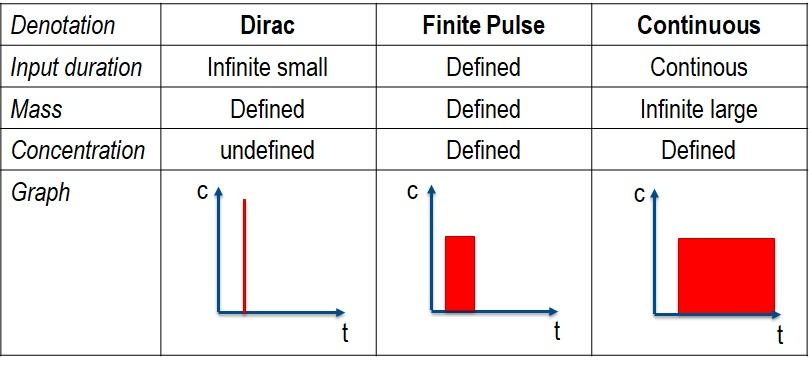
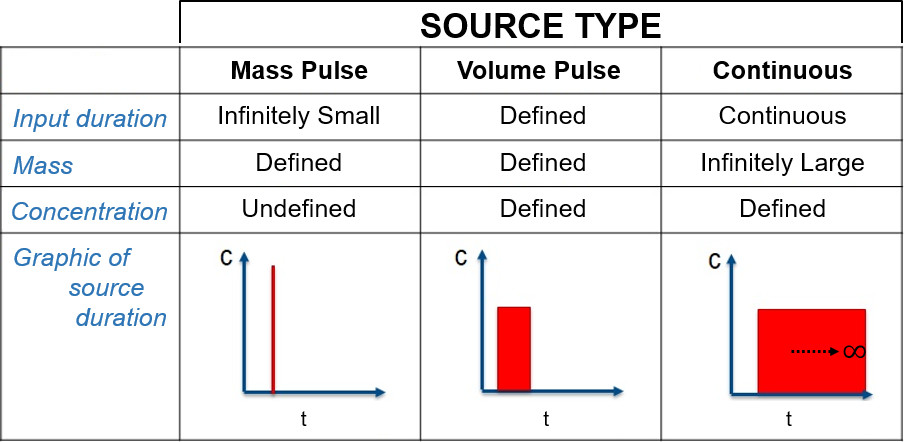
many changes
Welcome page

I made the explanation more explicit

I changed some of the terminology but not the mathematical concepts

I redid the image of the source to include the revised terminology and make the concepts graphically clear

Theory page

this was only a template - I flushed it out with equations - variables - and images for all 3 source types

Changes to the solutions

Changed names of pages Dirac pulse became Mass Pulse to be more easily understood by a wider audience ordered to go mass pulse - vol pulse - hen continuous and corrected typos in names and in files

I made the specific discharge 0.01 instead of 0.016 because it is easier for the mind to take in and hold on to and to calculate in ones head how changing porosity and dispersivity changes the input values

The variable ranges allowed the results to exceed the graph axes and given the limited applicability of 1D transport it is really only applicable to education - not very applicable to practical application except in a laboratory column so I decided to present it as exactly that - transport in a column and so I am nt done yet but am limiting the inputs to make sense in that regard and adjusted all the variables within each solution to address that and be consistent with each other.

these are some of the new constraints

length of column is 1 m

radius is 0.254 m

Q 24.32 ml/minute

q 0.0002 m/s
[…]

diff --git a/90_Streamlit_apps/GWP_1D_Conservative_Transport/pages/02_📈_▶ Compute Mass Pulse.py b/90_Streamlit_apps/GWP_1D_Conservative_Transport/pages/02_📈_▶ Compute Mass Pulse.py
@@ -4,24 +4,40 @@ from scipy import special
 import numpy as np
 import streamlit as st
 
-st.title('1D Transport with advection and dispersion')
-st.subheader('Tracer input as :green[Dirac Pulse] data', divider="green")
+st.title('1D transport with advection and dispersion')
+st.subheader('Tracer input as :green[Mass Pulse] data', divider="green")
 
 columns1 = st.columns((1,1,1), gap = 'large')
 with columns1[1]:
-    theory = st.button('Show theory')
+    theory = st.button('Show Equation')
     
 if theory:
-    st.latex(r'''c(x,t) = \frac{\Delta M}{2 \cdot A \cdot n_e \sqrt{\pi \cdot D \cdot t}} e^{-\frac{(x - v \cdot t)^2}{4 D \cdot t}}''')
+    st.latex(r'''C(x,t) = \frac{M}{2  A  n \sqrt{\pi  D  t}} e^{-\frac{(x - v t)^2}{4 D t}}''')
+    st.markdown(
+    """    
+    - M : mass (grams)
+    - C : concentration (grams/cubic meter)
+    - A : area of flow column (square meters)
+    - v : average linear velocity = product of hydraulic conductivity and gradient divided by effective porosity (meters/second)
+    - D : dispersion coefficient - product of dispersivity and average linear velocity (square meters/second)
+    - x : distance from the source (meters)
+    - t : time since the source was introduced (seconds)
+
+"""
+)
 
 st.markdown("""
             ### About the computed situation
             
-            Transport is considered for a 1D system with steady groundwater flow with a specific discharge _q_ of 0.016 m/s. The average velocity is depending on the porosity and printed below the interactive plot.
+            Solute transport with one-dimensional spreading (longitudinal in the direction of flow) in steady flow through ahomogeneous porous medium.
             
-            The solutes are added by an Dirac pulse with a user defined mass.
+            The specific discharge _q_ is fixed at 0.01 m/s. However, the average linear velocity depends on the effective porosity (v = q/n). The velocity is printed below the interactive plot.
             
-            The plot shows the solute concentration for advective-dispersive transport. The break through curve is computed for an observation point in a user-defined distance from the source. It is possible to plot a second breakthrough curve in an user-defined distance relative to the first observation.
+            The solute is added as a user defined mass on the plane of the inlet end of the flow column at time = 0. The plane is infinitesimally thin, which although impossible in physical space, can be mathematically useful in representing a spill of finite mass in a small area.
+
+            Concentration is calculated at a user-defined distance from the source.
+            
+            The result is shown as a graph of concentration versus time (a break through curve). A second breakthrough curve can be calculated and displayed for another location at a user-defined distance downgradient of the first observation.
 """, unsafe_allow_html=True
 )
 "---"
@@ -42,32 +58,30 @@ def c_ADE(x, t, dM, Area, n, a, v):
     c = prefactor * exponential
     return c
 
-st.write('The plot shows the solute concentration at an observation point in a user-defined distance from the source. Transport is considered for a 1D system with steady groundwater flow. Solutes are added by an finite pulse with a concentration of 0.1 g per cubicmeter.')
-"---"
 columns2 = st.columns((1,1), gap = 'large')
 
 with columns2[0]:
-    tp = st.slider(f'**Time for the concentration profile (s)**',1.,1800.,120.,1.)
+    tp = st.slider(f'**Time for the concentration profile (s)**',60.,6000.,60.,1.)
     multi = st.toggle("Plot two curves")
-    x  = st.slider(f'**Distance of the primary observation from source (m)**',1.,100.,1.,1.)
+    x  = st.slider(f'**Distance of the primary observation from source (m)**',0.1,1.0,0.1,0.01)
     if multi:
-        dx = st.slider(f'**Distance between the primary and secondary observation (m)**',0.,50.,1.,0.1) 
+        dx = st.slider(f'**Distance between the primary and secondary observation (m)**',0.1,1.0,0.1,0.01) 
     
 with columns2[1]:
-    dM = st.slider(f'**Input mass (g)**',0.01,5.0,1.0,0.01)
+    dM = st.slider(f'**Input mass (mg)**',0.001,0.1,0.001,0.0001,("%.3e"))
     n = st.slider(f'**Porosity (dimensionless)**',0.02,0.6,0.2,0.001)       
     a = st.slider(f'**Longitudinal dispersivity (m)**',0.001,1.0,0.01,0.001)
     
 "---"
-r  = 2      # Column radius
-Q = 0.2
+r  = 0.0254      # Column radius in meters 
+Q = 4.05365983277998E-07 # 24.322 ml/minute which is a reasonable flow for laboratory column and produces a q of 0.0002,
 Area = np.pi*r**2
 q = Q/Area
 v = q/n
 
 # Data for plotting
 t0 = 1      # Starting time
-t1 = 1800   # Ending time
+t1 = 6000   # Ending time
 dt = 2      # Time discretization
 ci = 0      # Initial concentration
 
@@ -87,7 +101,7 @@ concp  = []
 #compute break through
 for t in range(t0, t1, dt):      
     # ADVECTION-DISPERSION
-    cmax1 = ci+c_ADE(1, t, 1, Area, n, 0.01, v)
+    cmax1 = ci+c_ADE(0.1, t, dM, Area, n, 0.01, v)
     if cmax1 > cmax:
         cmax = cmax1
     c = ci+c_ADE(x, t, dM, Area, n, a, v)
@@ -108,6 +122,8 @@ for xp in np.linspace(0, 100, num=1000):
 t_obs = [100, 200, 300, 400, 500, 600, 700, 800, 900, 1000]
 c_obs = [1e-3, 5e-2, 8.5e-2, 9.7e-2, 9.9e-2, 10e-2, 10e-2, 10e-2, 10e-2, 10e-2]
    
+st.write("**Average velocity _v_ (m/s)** = ","% 7.3E"% v)
+
 #PLOT FIGURE
 fig = plt.figure(figsize=(9,12))
 ax = fig.add_subplot(2, 1, 1)
@@ -119,7 +135,7 @@ ax.set_ylabel ('Concentration (g/m³)', fontsize=14)
 ax.plot(time,conc, 'navy', linewidth=2, label="Breakthrough observation 1")
 if multi:
     ax.plot(time,conc2, 'lightblue', linewidth=2, label="Breakthrough observation 2")
-plt.ylim(0,cmax*0.5)
+plt.ylim(0,cmax)
 plt.xlim(0,t1)
 plt.xticks(fontsize=14)
 plt.yticks(fontsize=14)
@@ -131,12 +147,10 @@ ax.set_ylabel ('Concentration (g/m³)', fontsize=14)
       
 # PLOT HERE
 ax.plot(space,concp, 'orange', linewidth=2, label="Concentration profile")
-plt.ylim(0,cmax*0.5)
+plt.ylim(0,cmax)
 plt.xlim(0,100)
 plt.xticks(fontsize=14)
 plt.yticks(fontsize=14)
 plt.legend(frameon=False, loc='upper right', fontsize=14)
     
 st.pyplot(fig)
-
-st.write("Average velocity _v_ (m/s) = ","% 7.3E"% v)

diff --git a/90_Streamlit_apps/GWP_1D_Conservative_Transport/pages/01_📃_Theory.py b/90_Streamlit_apps/GWP_1D_Conservative_Transport/pages/01_📃_Theory.py
@@ -1,30 +1,151 @@
 import streamlit as st
 
-st.title('📃 Theory underlying 1D Conservative Transport')
+st.title('📃 Theory ')
+st.title(' 1D Conservative Transport')
 
 st.markdown(
     """
-    ## The Conceptual Model for 1D Conservative Transport
-    ...
+    ## Conceptual Model
 """
 )
+
+st.markdown(
+    """
+    At time = 0  source is in place
+    
+"""
+)
+
 left_co, cent_co, last_co = st.columns((20,60,20))
 with cent_co:
-    st.image('90_Streamlit_apps/GWP_1D_Conservative_Transport/assets/images/break_through_curve.jpg', caption="A breakt through curve (concentration over time) for an observation well.")
+    st.image('C:\_1_GitHub\Jupyter-Notebooks\90_Streamlit_apps\GWP_1D_Conservative_Transport/assets/images/1DtransportConceptualModel_1.jpg')
+
+
 st.markdown(
     """
-    ## The Mathematical Model for 1D Conservative Transport
+    Some time later, the solutes have migrated down gradient with the average flow velocity and have spread in the longitudinal direction due to local velocity varations that are 'lumped' mathematically into a term known as dispersion.
     
-    UPDATE
-    ...
 """
 )
 
-st.latex(r'''x=\frac{-y}{\tan (\frac{2 \pi Kiby}{Q})}''')
+
+left_co, cent_co, last_co = st.columns((20,60,20))
+with cent_co:
+    st.image('C:\_1_GitHub\Jupyter-Notebooks\90_Streamlit_apps\GWP_1D_Conservative_Transport/assets/images/1DtransportConceptualModel_2.jpg')
+
 
 st.markdown(
     """
-UPDATE  References
+    :blue[The 1-dimensional solution represents conditions where lateral confinement prevents spreading except in the direction of flow.] For example, this is applicable to a column in a labroatory filled with a porous medium and with the source spread across the inflow end of the column.
+"""
+)
+
+st.markdown(
+    """
+   The solute plumes differ due to the nature of the source. 
+    - The :blue[Mass Pulse Source is a mass instantaneously introduced to the inflow end of the column.] The solutes move with the water flow and spread with ever decreasing concentration.
+    - The :blue[Volume Pulse Source is a specified volume containing an evenly distributed specified mass introduced to the inflow end of the column.] The concentration is determined as a specified mass divided by the volume. The solutes flow in for the period of time required to take in that volume given the flow rate in the column. The solutes move with the groundwater flow and spread longitudinally with ever decreasing concentration.
+    - The :blue[Continuous Source is water of specified concentration continuously introduced to the inflow end of the column such that mass is continuously added to the system.] The solutes move with the groundwater flow rising to the source concentration and spreading to lower concentrations at the front of the plume.   
+"""
+)
+
+st.markdown(
+    """
+    ## Mathematical Models
+"""
+)
+
+st.markdown(
+    """   
+    Solutions are based on Ogata A., Banks R. B. (1961): A solution of the differential equation of longitudinal dispersion in porous media, USGS Prof. Paper 411-A. https://pubs.usgs.gov/pp/0411a/report.pdf
+"""
+)
+   
+st.markdown(
+    """
+    - M : mass (grams)
+    - Co : initial concentration (grams/cubic meter)
+    - C : concentration (grams/cubic meter)
+    - A : area of flow column (square meters)
+    - K : hydraulic conducitivity (meters/second)
+    - i : hydraulic gradient (dimensionless)
+    - n : effective porosity (dimensionless)
+    - v : average linear velocity = Ki/n (meters/second)
+    - a : dispersivity (meters)
+    - D : dispersion coefficient - product of dispersivity and average linear velocity (square meters/second)
+    - x : distance from the source (meters)
+    - t : time since the source was introduced (seconds)
 
 """
 )
+
+st.markdown(
+    """
+      
+    ## :blue[Mass Pulse Source 1D Transport]
+
+"""
+)
+
+st.latex(r'''C(x,t) = \frac{M}{2  A  n \sqrt{\pi  D  t}} e^{-\frac{(x - v t)^2}{4 D t}}''')
+
+st.markdown(
+    """
+     ## :blue[Volume Pulse Source 1D Transport]
+
+"""
+)
+
+
+st.markdown(
+    """
+  
+  This is a combination of two superposed continuous source solutions. The first solution starts at time zero with Co equal to the source concentration and continues indefinitely. The second solution is summed to the first and using negative source concentration and begins at the time when injection of the specified volume is complete then continues indefinitely.
+
+"""
+)
+
+
+st.latex(r'''C(x,t) = \frac{Co}{ 2 }  \left( erfc \left( \frac{x - vt}{2 \sqrt{Dt}} \right) \right) + \frac{-Co}{ 2 }  \left( erfc \left( \frac{x - v(t-tduration)}{2 \sqrt{D(t-tduration)}} \right) \right)''')
+
+
+st.markdown(
+    """
+     ## :blue[Continuous Source 1D Transport]
+
+"""
+)
+
+st.latex(r'''C(x,t) = \frac{Co}{ 2 }  ( erfc ( \frac{x - vt}{2 \sqrt{Dt}} )''')
+
+st.markdown(
+    """
+
+"""
+)
+st.markdown (
+    """   
+    :green
+    ___
+  
+"""
+)
+
+
+st.markdown(
+    """
+        :green[The Groundwater Project is nonprofit with one full-time staff and over a 1000 volunteers.]
+        """
+)
+st.markdown(
+    """
+        :green[Please help us by using the following link when sharing this tool with others.]
+        """   
+)
+
+st.markdown(
+    """
+        https://interactive-education.gw-project.org/1D_conservative_transport/
+        """   
+)
+
